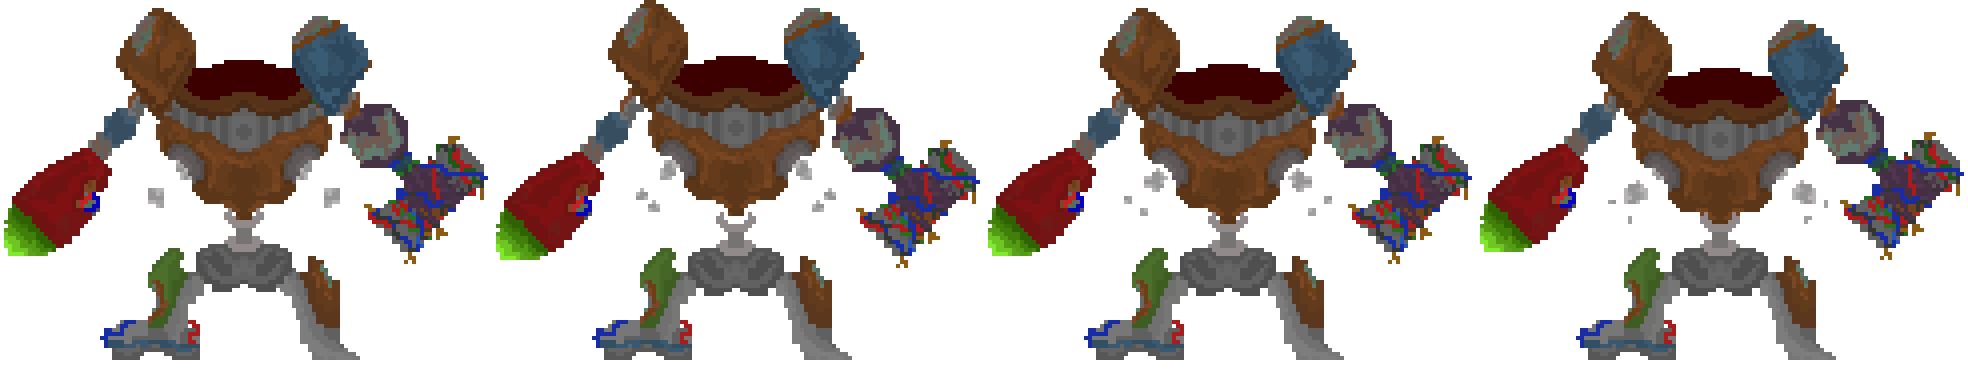
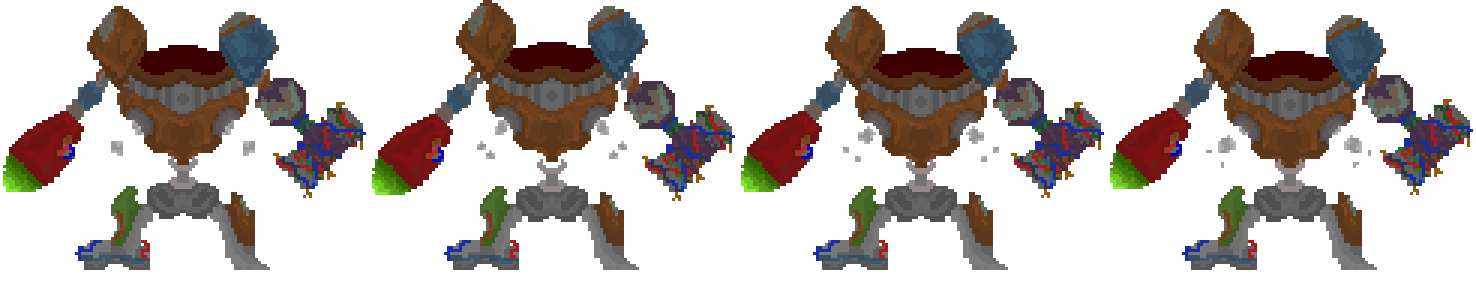
Changed tinkerer mech size + chloroville doors

diff --git a/gamedata/areadata.js b/gamedata/areadata.js
@@ -9554,11 +9554,7 @@ Last I saw him, he was visiting the <b>Eaglecrest Plains</b> to the <b>south</b>
 				y: 4100,
 				template: EnemyTemplates.eaglecrest.coyoteWrangler,
 			},
-			{
-				x: 1000,
-				y: 1000,
-				template: EnemyTemplates.hive.carpenterNest,
-			},
+		
 			{
 				x: 6300,
 				y: 3800,
@@ -12818,8 +12814,8 @@ undergrove: {
 				crop: {
 					x: 0,
 					y: 0,
-					width: 493,
-					height: 388,
+					width: 370,
+					height: 291,
 				},
 				animation: {
 					type: "spritesheet",
@@ -13618,6 +13614,7 @@ undergrove: {
 		},
 
 		images: {
+			tinkererMech: {normal: "assets/mounts/tinkererMech/tinkererMechIdle.png"},
 			tiles: {normal: "assets/tilemap/caves.png"},
 			waterRock1: {normal: "assets/objects/waterRock1.png"},
 			waterRock2: {normal: "assets/objects/waterRock2.png"},
@@ -13641,6 +13638,24 @@ undergrove: {
 
 	},
 	things: [
+
+		{
+				x: 470, y: -900,
+				image: "tinkererMech",
+				name: "tinkererMech",
+				crop: {
+					x: 0,
+					y: 0,
+					width: 370,
+					height: 291,
+				},
+				animation: {
+					type: "spritesheet",
+					frameTime: 250,
+					imagesPerRow: 4,
+					totalImages: 4,
+				},
+			},
 		{
 			x: [888, 2254],
 			y: [551, 111],
